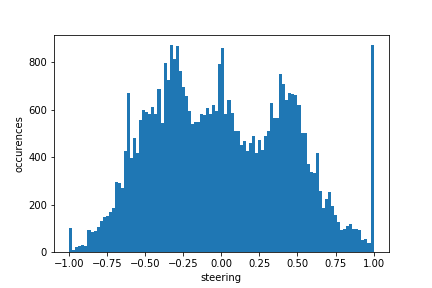
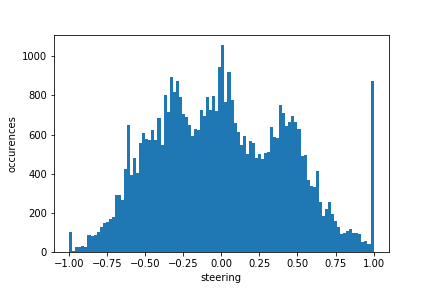
refactor a bit and re-organize the data, re-run

diff --git a/nvidia_model.py b/nvidia_model.py
@@ -20,13 +20,17 @@ flags = tf.app.flags
 FLAGS = flags.FLAGS
 
 # Set parameters here
+steering_index=3
 parent_data_folder = './data/'
 img_sub_foler = 'IMG/'
 ch, row, col = 3, 160, 320
-train_dataset_folder = [("track1_new_1/", 1, False),
-                        ("track1_rec_1/", 1, False),
-                        ("track1_rec_2", 1, False),
-                        # ("track1_rec_3",1),
+
+# A list of tuples of (training_folder_name,weight_of_the_datset,exclude_zero_steering)
+
+train_dataset_folder = [("track1_new_1/", 2, False),
+                        ("track1_rec_1/", 2, True),
+                        ("track1_rec_2", 2, True),
+                        ("track1_rec_3", 2, True),
                         # ("track2_7",1,False),
                         # ("track2_8",1,False),
                         # ("track2_9",1,False),
@@ -39,7 +43,7 @@ train_dataset_folder = [("track1_new_1/", 1, False),
                         ("track2_rec_8", 1, True),
                         ("track2_rec_7", 1, True),
                         ("track2_rec_9", 1, True),
-                        ("track2_rec_10", 10, True)]
+                        ("track2_rec_10", 1, True)]
 # ("track2_curve_1",1,False)]
 
 # train_dataset_folder=["track1_rec_3/","track1_new_1/"]
@@ -47,8 +51,12 @@ val_dataset_folder = [("track2_val_1", 1, False)]
 train_side_camera = True
 batch_size = 512
 
+center_cam = {'cam_index': 0, 'steering_adjust': 0, 'slope': 1}
+right_cam = {'cam_index': 2, 'steering_adjust': -0.14, "slope": 1}
+left_cam = {'cam_index': 1, 'steering_adjust': 0.14, "slope": 1}
 
-def load_multi_dataset(data_dirs_pair: list):
+
+def load_multi_dataset(data_dirs_pair: list)->pd.DataFrame:
     data_dirs = list(map(lambda x: os.path.join(parent_data_folder, x[0]), data_dirs_pair))
 
     all_df = []
@@ -64,12 +72,21 @@ def load_multi_dataset(data_dirs_pair: list):
     return all_df
 
 
-def filter_dataset(df, keep_size=0.01, verbose=False):
+def filter_zero_steering(df:pd.DataFrame, keep_size=0.01, verbose=False)->pd.DataFrame:
+    """
+    Reduce the number of entries in the data that steering==0.0
+
+    :param df: The pandas dataframe loaded from driving_log.csv
+    :param keep_size: The ratio of df['steering']==0.0 entries to be kept
+    :param verbose: Set True to display the messages
+    :return:
+    """
     if verbose:
-        print("samples refiltered")
+        print("Filtering entries with steering value ==0.0")
 
-    steering_values = df.iloc[:, 3].values
+    steering_values = df.iloc[:, steering_index].values
 
+    # Separate the data frame into two groups: steering==0.0 and steering !=0.0
     idx = np.abs(steering_values) == 0.0
     non_zero_idx = np.abs(steering_values) != 0.0
 
@@ -77,18 +94,31 @@ def filter_dataset(df, keep_size=0.01, verbose=False):
 
     sel_idx = np.random.choice(np.arange(0, df.shape[0])[idx], int(zero_len * keep_size))
 
-    assert np.all(df.iloc[sel_idx, 3] == 0.0)
-    assert np.all(df.iloc[non_zero_idx, 3] != 0.0)
+    assert np.all(df.iloc[sel_idx, steering_index] == 0.0)
+    assert np.all(df.iloc[non_zero_idx, steering_index] != 0.0)
+
     ndf = pd.concat([df.iloc[sel_idx, :], df.iloc[non_zero_idx, :]], axis=0)
 
     return ndf
 
 
-def resample_df(df, bins=100):
+def resample_df(df:pd.DataFrame, bins=100)->pd.DataFrame:
+    """
+    Resample the driving data from the histogram of steering values.
+    It divides the range of steering values into a certain number of beams,
+    then select the medium counts of sample from each bin.
+
+    :param df: The pandas dataframe that has same forms of driving_log.csv
+    :param bins: The number of bins
+    :return: The new filtered dataframe
+    """
     steering_val = df["steering"].values
     counts, bin_bound = np.histogram(steering_val, bins=bins)
     rand_size = np.floor(np.median(counts)).astype('int')
+
     final_idx = []
+
+    # Go through each bin and randomly select data from each bin
     for i in range(bin_bound.shape[0] - 1):
         idx = np.logical_and(steering_val >= bin_bound[i], steering_val < bin_bound[i + 1])
         num_idx = np.flatnonzero(idx)
@@ -132,23 +162,12 @@ def trans_image(image, trans_range):
     return image_tr, steer_ang
 
 
-def load_sample_df(df: pd.DataFrame, test_size=0.2):
-    train, val = train_test_split(df, test_size=test_size)
-
-    return train, val
-
-
-center_cam = {'cam_index': 0, 'steering_adjust': 0, 'slope': 1}
-right_cam = {'cam_index': 2, 'steering_adjust': -0.14, "slope": 1}
-left_cam = {'cam_index': 1, 'steering_adjust': 0.14, "slope": 1}
-
-
 def generator(input_samples, batch_size=32,
               shuffle_samples=True, side_cam=False,
               filter=False, sample_num_bound=None):
     while True:  # Loop forever so the generator never terminates
         if filter == True:
-            samples = filter_dataset(input_samples)
+            samples = filter_zero_steering(input_samples)
             samples = resample_df(samples)
             sel_idx = np.random.choice(samples.shape[0], sample_num_bound)
             samples = samples.iloc[sel_idx, :]
@@ -169,60 +188,35 @@ def generator(input_samples, batch_size=32,
             images = []
             steer_adj = []
             for batch_sample in batch_samples:
-                center_image = cv2.imread(batch_sample)
+                cam_image = cv2.imread(batch_sample)
                 # augment new images
-                center_image = augment_brightness_camera_images(center_image)
-                center_image, adj = trans_image(center_image, 100)
-                center_image = preprossing(center_image)
+                cam_image = augment_brightness_camera_images(cam_image)
+                cam_image, adj = trans_image(cam_image, 100)
+                if np.random.rand()>0.5:
+                    cam_image=np.flip(cam_image,axis=2)
 
-                images.append(center_image)
+                # Proprocess the image for training
+                cam_image = preprossing(cam_image)
+
+                images.append(cam_image)
                 steer_adj.append(adj)
 
             X_train = np.array(images)
             y_train = samples.iloc[offset:min(offset + batch_size, num_samples), 3] \
                       * cam["slope"] + cam['steering_adjust'] + np.array(steer_adj)
 
-            nX_train = np.flip(X_train, axis=3)
+            yield X_train, y_train
 
-            cX_train = np.concatenate((X_train, nX_train), axis=0)
-            cy_train = np.concatenate((y_train, y_train), axis=0)
-
-            yield cX_train, cy_train
-
-
-def load_bottleneck_data(training_file, validation_file):
-    """
-    Utility function to load bottleneck features.
-
-    Arguments:
-        training_file - String
-        validation_file - String
-    """
-    print("Training file", training_file)
-    print("Validation file", validation_file)
-
-    with open(training_file, 'rb') as f:
-        train_data = pickle.load(f)
-    with open(validation_file, 'rb') as f:
-        validation_data = pickle.load(f)
-
-    X_train = train_data['features']
-    y_train = train_data['labels']
-    X_val = validation_data['features']
-    y_val = validation_data['labels']
-
-    return X_train, y_train, X_val, y_val
 
 
 def main(_):
-    # load bottleneck data
 
     train_samples = load_multi_dataset(train_dataset_folder)
 
     validation_samples = load_multi_dataset(val_dataset_folder)
 
     # train_samples=filter_dataset(train_samples)
-    dummy_train_samples = filter_dataset(train_samples)
+    dummy_train_samples = filter_zero_steering(train_samples)
     dummy_train_samples = resample_df(dummy_train_samples)
     var_sample_num = dummy_train_samples.shape[0]
 
@@ -259,19 +253,19 @@ def main(_):
     callback_list = [checkpoint]
 
     hist = nvidia_model.fit_generator(train_generator,
-                                      var_sample_num * 2,
+                                      var_sample_num,
                                       nb_epoch=10,
                                       validation_data=validation_generator,
-                                      nb_val_samples=validation_samples.shape[0] * 2,
+                                      nb_val_samples=validation_samples.shape[0],
                                       callbacks=callback_list)
 
     # nvidia_model.evaluate_generator(validation_generator,validation_samples.shape[0])
 
-    with open('model_hist_r_v10_1.p', 'wb') as fp:
+    with open('model_hist_r_v12.p', 'wb') as fp:
         pickle.dump(hist.history, fp)
 
-    nvidia_model.save("model_r_v11.h5")
-    nvidia_model.save_weights('nvidia_model_weights_r_v11.h5')
+    nvidia_model.save("model_r_v12.h5")
+    nvidia_model.save_weights('nvidia_model_weights_r_v12.h5')
 
 
 # parses flags and calls the `main` function above

diff --git a/report.md b/report.md
@@ -17,6 +17,11 @@ Our model treat an image/steering pair as an independent event. A zig-zag turn w
 2. Recovery data
 Recovery data is very useful in rescuing the unexpected driving behavior. I deliberately steer a car off the center of the lane and record how it recovers. After that, I delete the data entries with steering value is zero, because these entries contains the actions of driving the car towards the sideline, which increases noises in the training dataset.
 
+## Dataset for validation
+
+Rather than picking up a portion of train dataset as the validation data, I use a completely separated driving data as the validation data. When I focused on training the car to drive track 1, I used the sample data provided by Udacity as the validation data. When I focused on training the car to drive on track 2, I use a small set of driving data on track 2 as the validation data to monior the training process.
+
+
 
 ## Models
 
@@ -25,6 +30,10 @@ The overall modeling flow is illustrated as the following
 
 ![model_arch](./data_figs/00048-Model Architecture.png)
 
+
+### Optimizer and loss function
+
+MSE is for reference only. Once the MSE comes down than 0.1, it is more accurate to use actually run the model in the simulator. In ths project, low MSE value is not necessarily better
 
 
 ### Preprocessing
